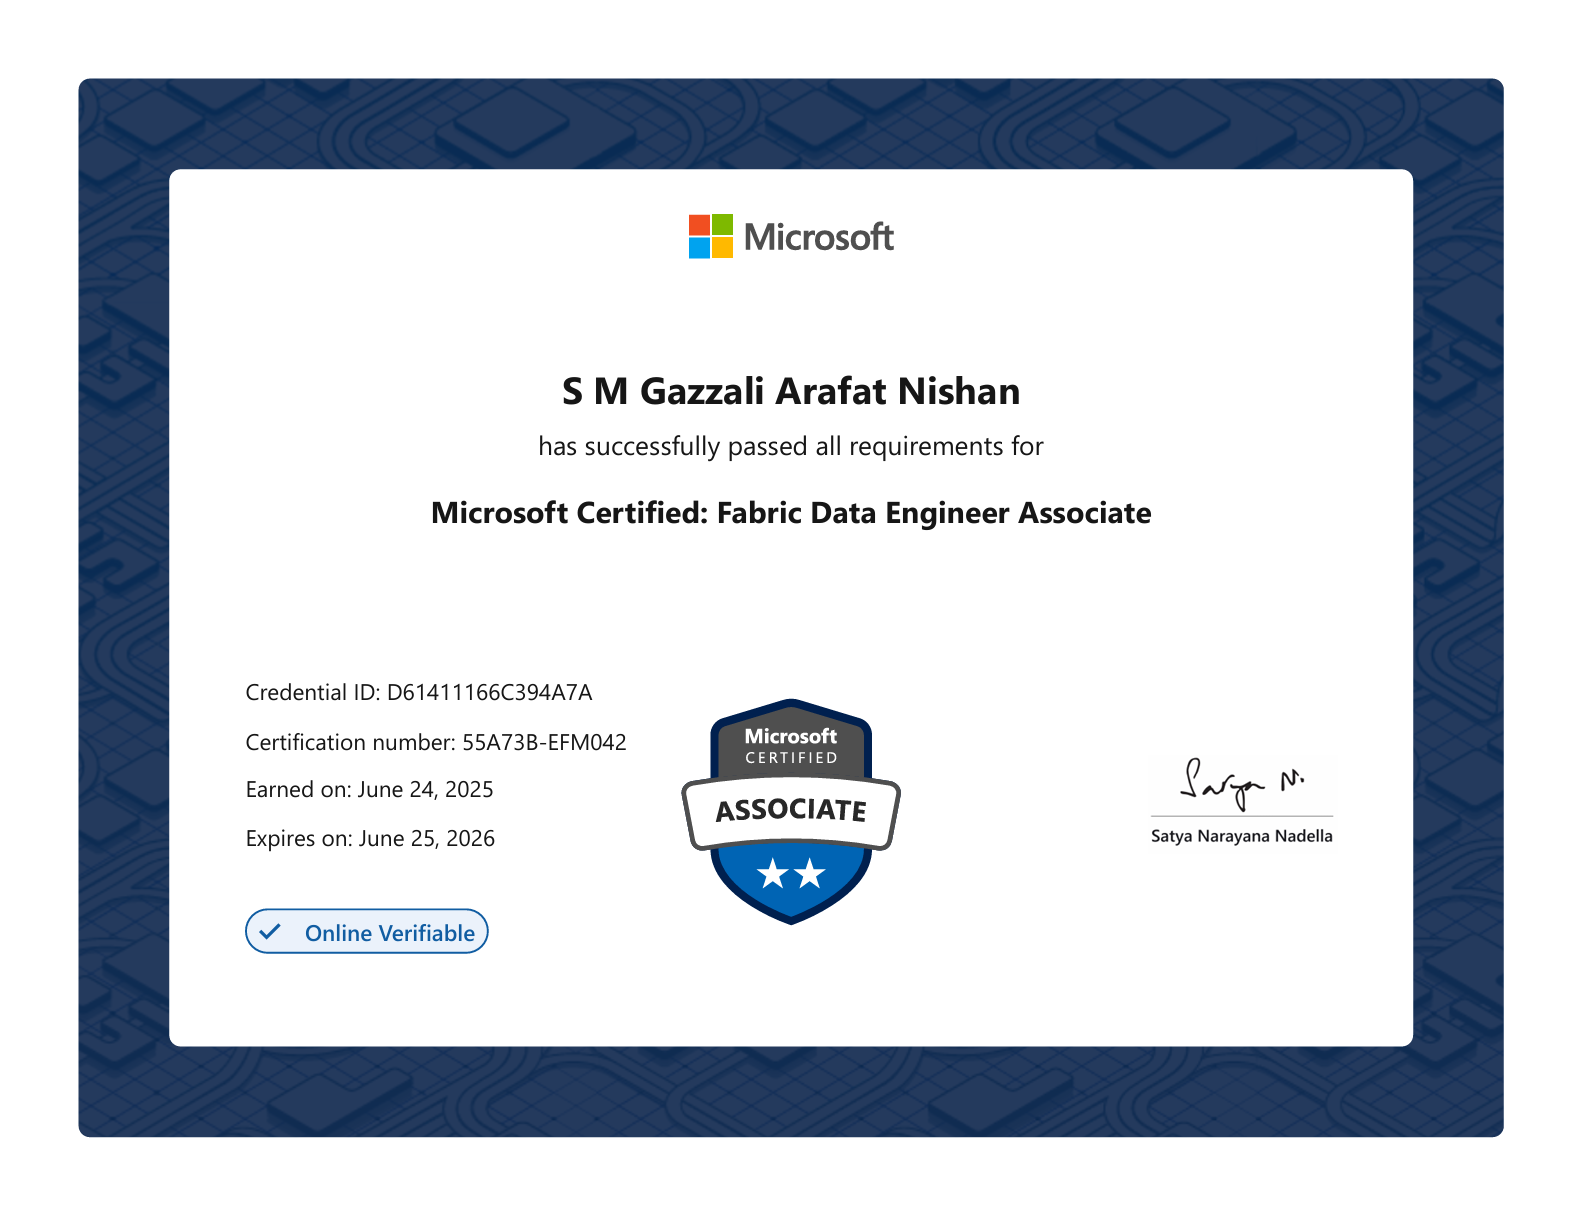
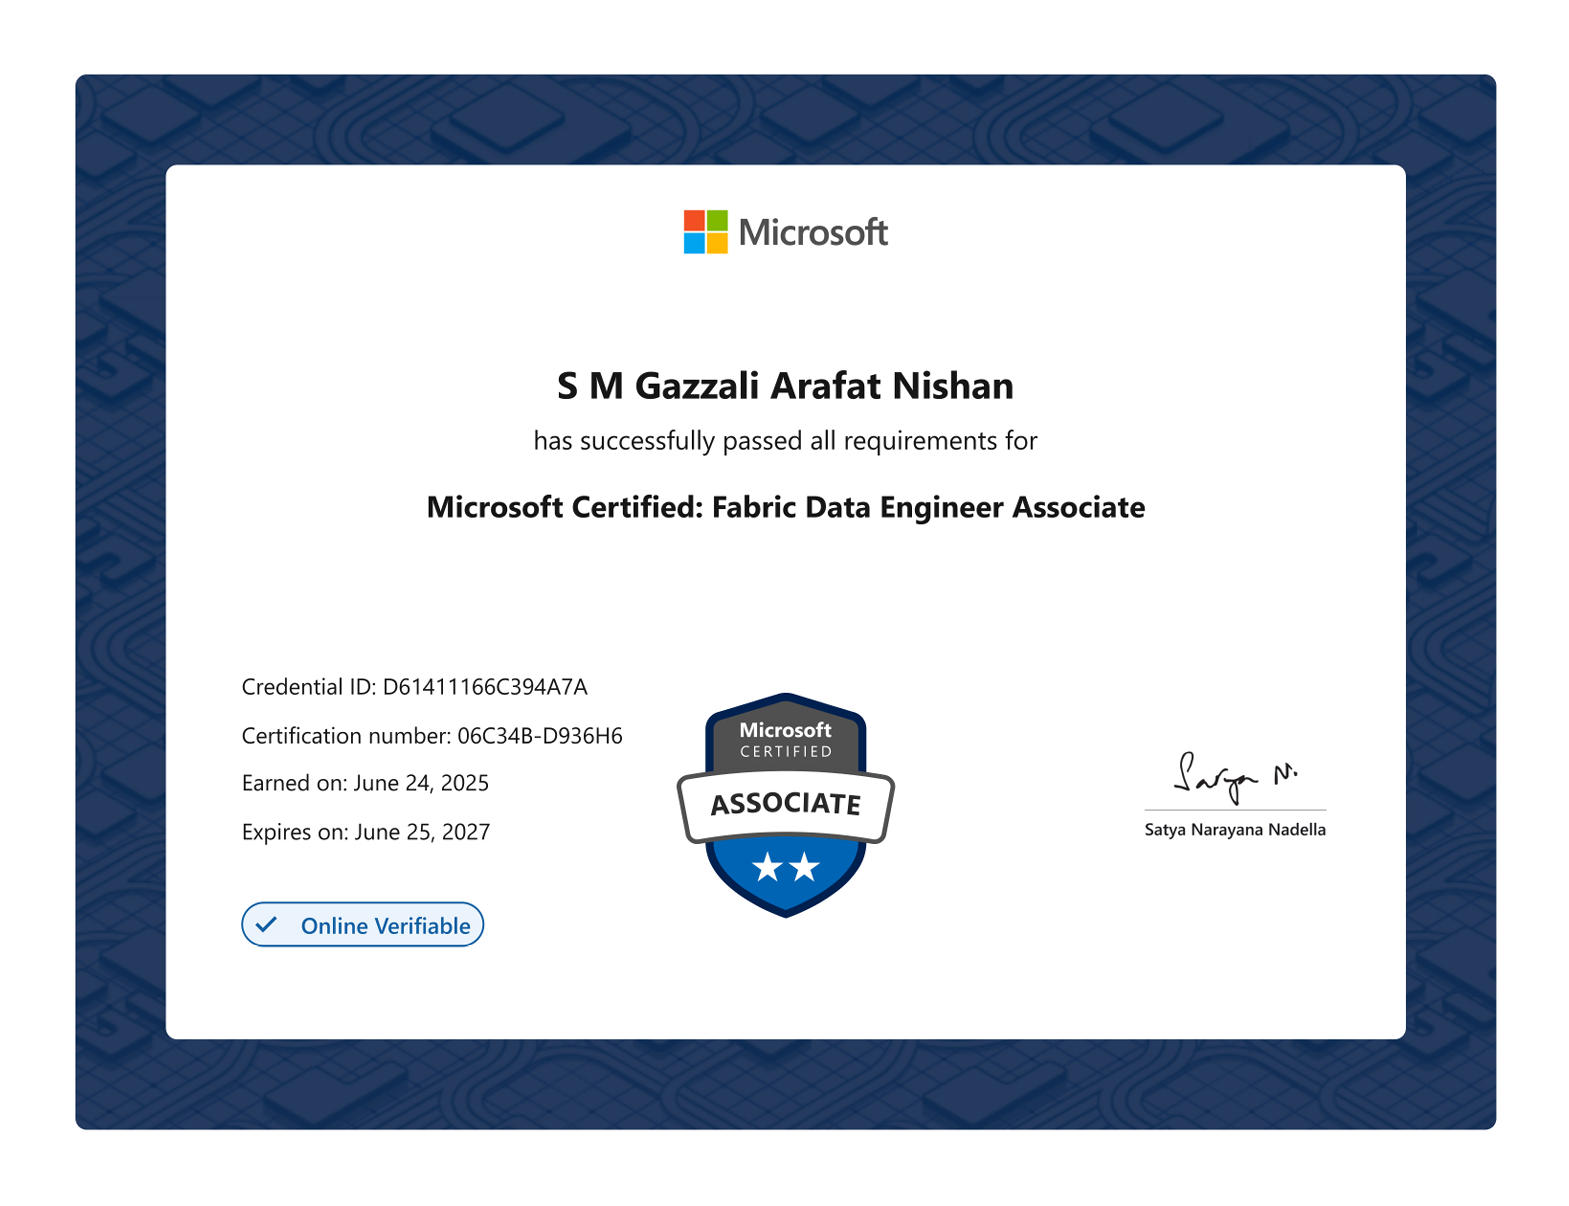
Renewed DP700

diff --git a/_pages/about.md b/_pages/about.md
@@ -69,7 +69,7 @@ He is highly dedicated to multi-cloud computing technology. For example, he pred
 | AZ-204 | [Microsoft Certified: Azure Developer Associate](https://learn.microsoft.com/en-us/users/smgazzaliarafatnishan-4645/credentials/93d8b03b2eae81c8) | [Verify](https://learn.microsoft.com/en-us/users/smgazzaliarafatnishan-4645/credentials/93d8b03b2eae81c8) | [Download](/files/microsoft/microsoft_certified_azure_developer_associate_az_204_certificate.png) | 2025-10-07 | 2026-10-07 | Microsoft | Online Proctored by PearsonVUE |
 | AZ-305 | [Microsoft Certified: Azure Solutions Architect Expert](https://learn.microsoft.com/en-us/users/SMGazzaliArafatNishan-4645/credentials/BBB34331FCB74DB7) | [Verify](https://learn.microsoft.com/en-us/users/SMGazzaliArafatNishan-4645/credentials/BBB34331FCB74DB7) | [Download](/files/microsoft/microsoft_azure_solutions_architect_expert_az_305_certificate.png) | 2025-10-05 | 2026-10-06 | Microsoft | Online Proctored by PearsonVUE |
 | AZ-104 | [Microsoft Certified: Azure Administrator Associate](https://learn.microsoft.com/en-us/users/smgazzaliarafatnishan-4645/credentials/bae96e1b17f4524) | [Verify](https://learn.microsoft.com/en-us/users/smgazzaliarafatnishan-4645/credentials/bae96e1b17f4524) | [Download](/files/microsoft/microsoft_azure_administrator_associate_az104_certificate.png) | 2025-10-04 | 2026-10-05 | Microsoft | Online Proctored by PearsonVUE |
-| DP-700 | [Microsoft Certified: Azure Fabric Data Engineer Associate](https://learn.microsoft.com/en-us/users/smgazzaliarafatnishan-4645/credentials/d61411166c394a7a) | [Verify](https://learn.microsoft.com/en-us/users/smgazzaliarafatnishan-4645/credentials/d61411166c394a7a) | [Download](/files/microsoft/microsoft_azure_fabric_data_engineer_associate_dp_700_certificate.png) | 2025-06-24 | 2026-06-25 | Microsoft | Online Proctored by PearsonVUE |
+| DP-700 | [Microsoft Certified: Azure Fabric Data Engineer Associate](https://learn.microsoft.com/en-us/users/smgazzaliarafatnishan-4645/credentials/d61411166c394a7a) | [Verify](https://learn.microsoft.com/en-us/users/smgazzaliarafatnishan-4645/credentials/d61411166c394a7a) | [Download](/files/microsoft/microsoft_azure_fabric_data_engineer_associate_dp_700_certificate.png) | 2025-06-24 | 2027-06-25 | Microsoft | Online Proctored by PearsonVUE |
 | DP-203 | [Microsoft Certified: Azure Data Engineer Associate](https://learn.microsoft.com/en-us/users/smgazzaliarafatnishan-4645/credentials/cc036a4b7affc9ae) | [Verify](https://learn.microsoft.com/en-us/users/smgazzaliarafatnishan-4645/credentials/cc036a4b7affc9ae) | [Download](/files/microsoft/microsoft_azure_data_engineer_associate_dp_203_certificate.png) | 2024-11-28 | 2025-11-28 | Microsoft | Online Proctored by PearsonVUE |
 | AI-102| [Microsoft Certified: Azure AI Engineer Associate](https://learn.microsoft.com/en-us/users/SMGazzaliArafatNishan-4645/credentials/CAB2713E62F9049A) | [Verify](https://learn.microsoft.com/en-us/users/smgazzaliarafatnishan-4645/credentials/cab2713e62f9049a) | [Download](/files/microsoft/microsoft_azure_ai_engineer_associate_ai_102_certificate.png) | 2024-04-30 | 2027-04-30 | Microsoft | Online Proctored by PearsonVUE |
 | DP-100 | [Microsoft Certified: Azure Data Scientist Associate](https://learn.microsoft.com/en-us/users/smgazzaliarafatnishan-4645/credentials/a2c48d4c8739efa2) | [Verify](https://learn.microsoft.com/en-us/users/smgazzaliarafatnishan-4645/credentials/a2c48d4c8739efa2) | [Download](/files/microsoft/microsoft_azure_data_scientist_associate_dp_100_certificate.png) | 2024-04-28 | 2027-04-28 | Microsoft | Online Proctored by PearsonVUE |

diff --git a/_pages/certification.md b/_pages/certification.md
@@ -138,7 +138,15 @@ redirect_from:
 ### Skills measured  
 ★✅ Ingesting and transforming data      
 ★✅ Securing and managing an analytics solution      
-★✅ Monitoring and optimizing an analytics solution       
+★✅ Monitoring and optimizing an analytics solution    
+
+### Skills measured in renewal assessment:
+★✅ Implement lifecycle management in Fabric  
+★✅ Configure security and governance  
+★✅ Orchestrate processes  
+★✅ Design and implement loading patterns  
+★✅ Ingest and transform streaming data  
+★✅ Monitor Fabric items  
 
 > Azure Fabric Data Engineer Associate Verification Link : [link](https://learn.microsoft.com/en-us/users/smgazzaliarafatnishan-4645/credentials/d61411166c394a7a "Microsoft").
 

diff --git a/_pages/cv.md b/_pages/cv.md
@@ -75,7 +75,7 @@ Cloud Skill:
   * Microsoft Azure, 17x Microsoft Certified (Data+Fabric+AI+AzureML+Mlflow+AzureDatabricks+AzureSynapseAnalytics+PowerBI+MicrosoftEntra)  
   * Salesforce Cloud, 2x Salesforce Certified (AI+AgentForce)
   * Astronomer, 2x Apache Airflow Certified (Apache Airflow)
-  * Oracle Cloud, 42x Oracle Cloud Certified (OCI + Oracle Database + Oracle FUsion Cloud) 
+  * Oracle Cloud, 42x Oracle Cloud Certified (OCI + Oracle Database + Oracle Fusion Cloud) 
  
 Projects
 ======
